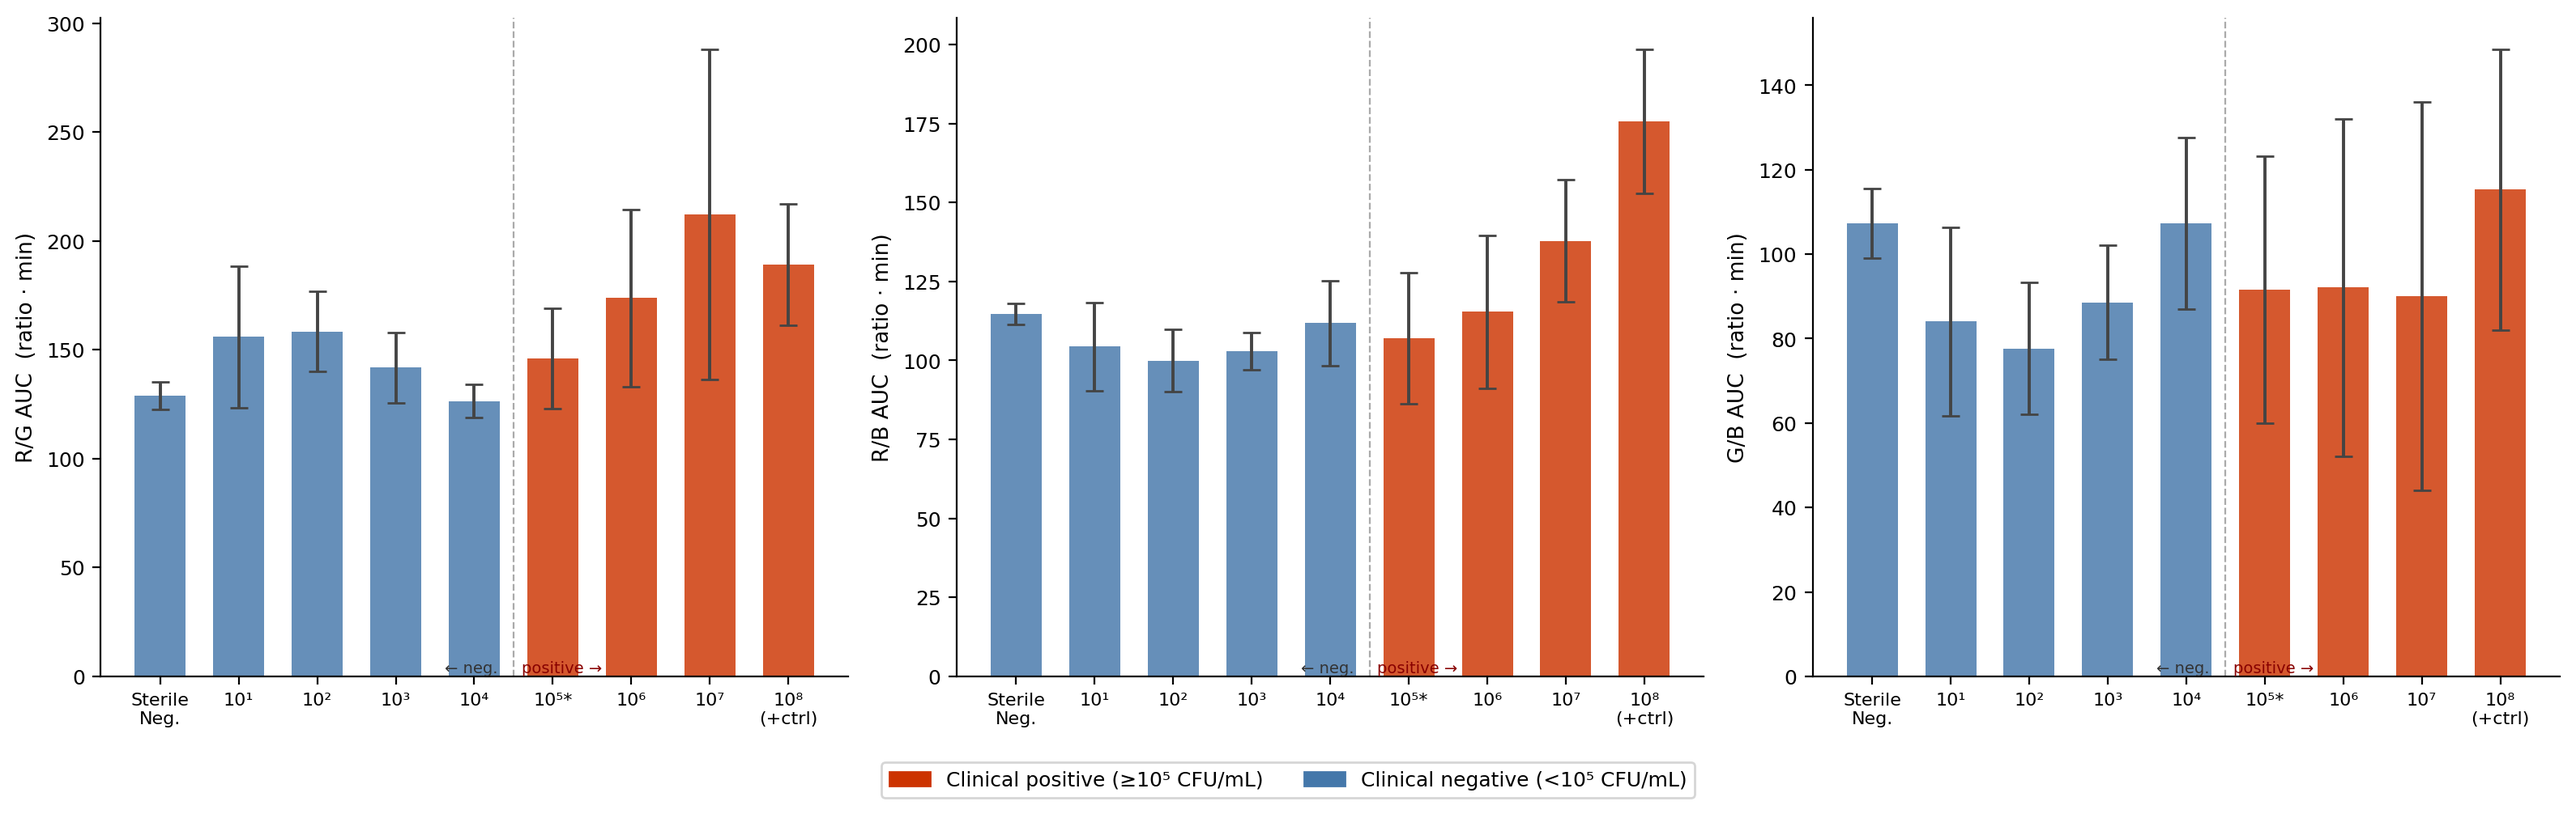
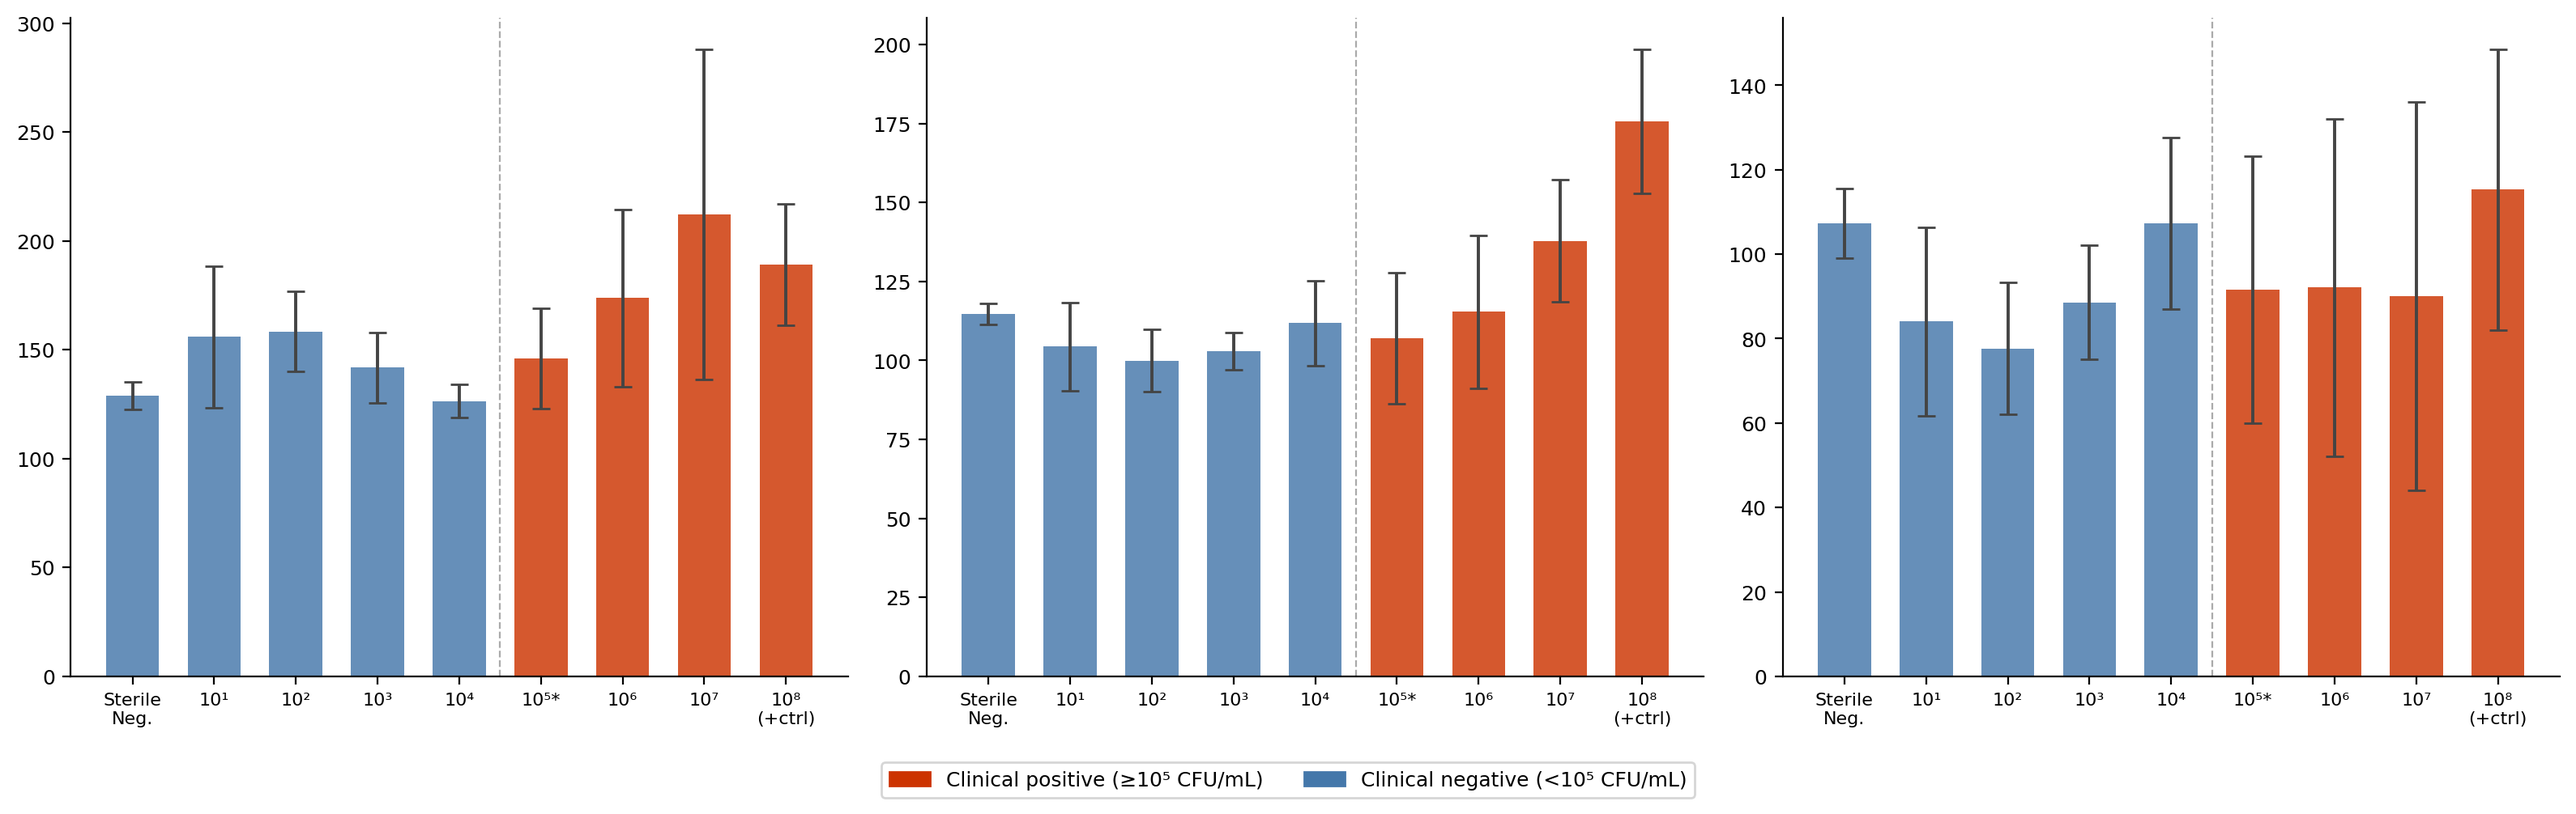
remove all axis labels and neg/pos annotations from AUC and final ratio figures
- fig5_auc_comparison: remove y-axis labels and neg/pos text annotations
- avg_final_ratio_bars: remove y-axis labels and panel titles

diff --git a/build_poster_highlights.py b/build_poster_highlights.py
@@ -454,11 +454,7 @@ for ax, (means, sds, ylabel, title, stat_label, is_sig) in zip(axes, panels):
            capsize=4, width=0.65, error_kw={"lw": 1.4, "ecolor": "#444444"})
     ax.set_xticks(x)
     ax.set_xticklabels([GROUP_LABELS[g] for g in groups_b], fontsize=8)
-    ax.set_ylabel(ylabel, fontsize=9.5)
     ax.axvline(4.5, color="#aaaaaa", lw=0.8, ls="--")
-    ylo = ax.get_ylim()[0]
-    ax.text(4.6, ylo, "positive →", fontsize=7, color="#880000", va="bottom")
-    ax.text(4.3, ylo, "← neg.",     fontsize=7, color="#333333", va="bottom", ha="right")
 
 pos_patch = mpatches.Patch(color="#CC3300", label="Clinical positive (≥10⁵ CFU/mL)")
 neg_patch = mpatches.Patch(color="#4477AA", label="Clinical negative (<10⁵ CFU/mL)")

diff --git a/build_averaged_results.py b/build_averaged_results.py
@@ -1302,8 +1302,6 @@ for ax, col, label in zip(
     }
     ax.set_xticklabels([_short.get(g, g) for g in groups_plot],
                        fontsize=8, rotation=0, ha="center")
-    ax.set_ylabel(label, fontsize=9)
-    ax.set_title(label, fontsize=10)
 
 pos_patch = mpatches.Patch(color="#CC3300", label="Clinical positive (≥10⁵ CFU/mL)")
 neg_patch = mpatches.Patch(color="#4477AA", label="Clinical negative (<10⁵ CFU/mL)")
